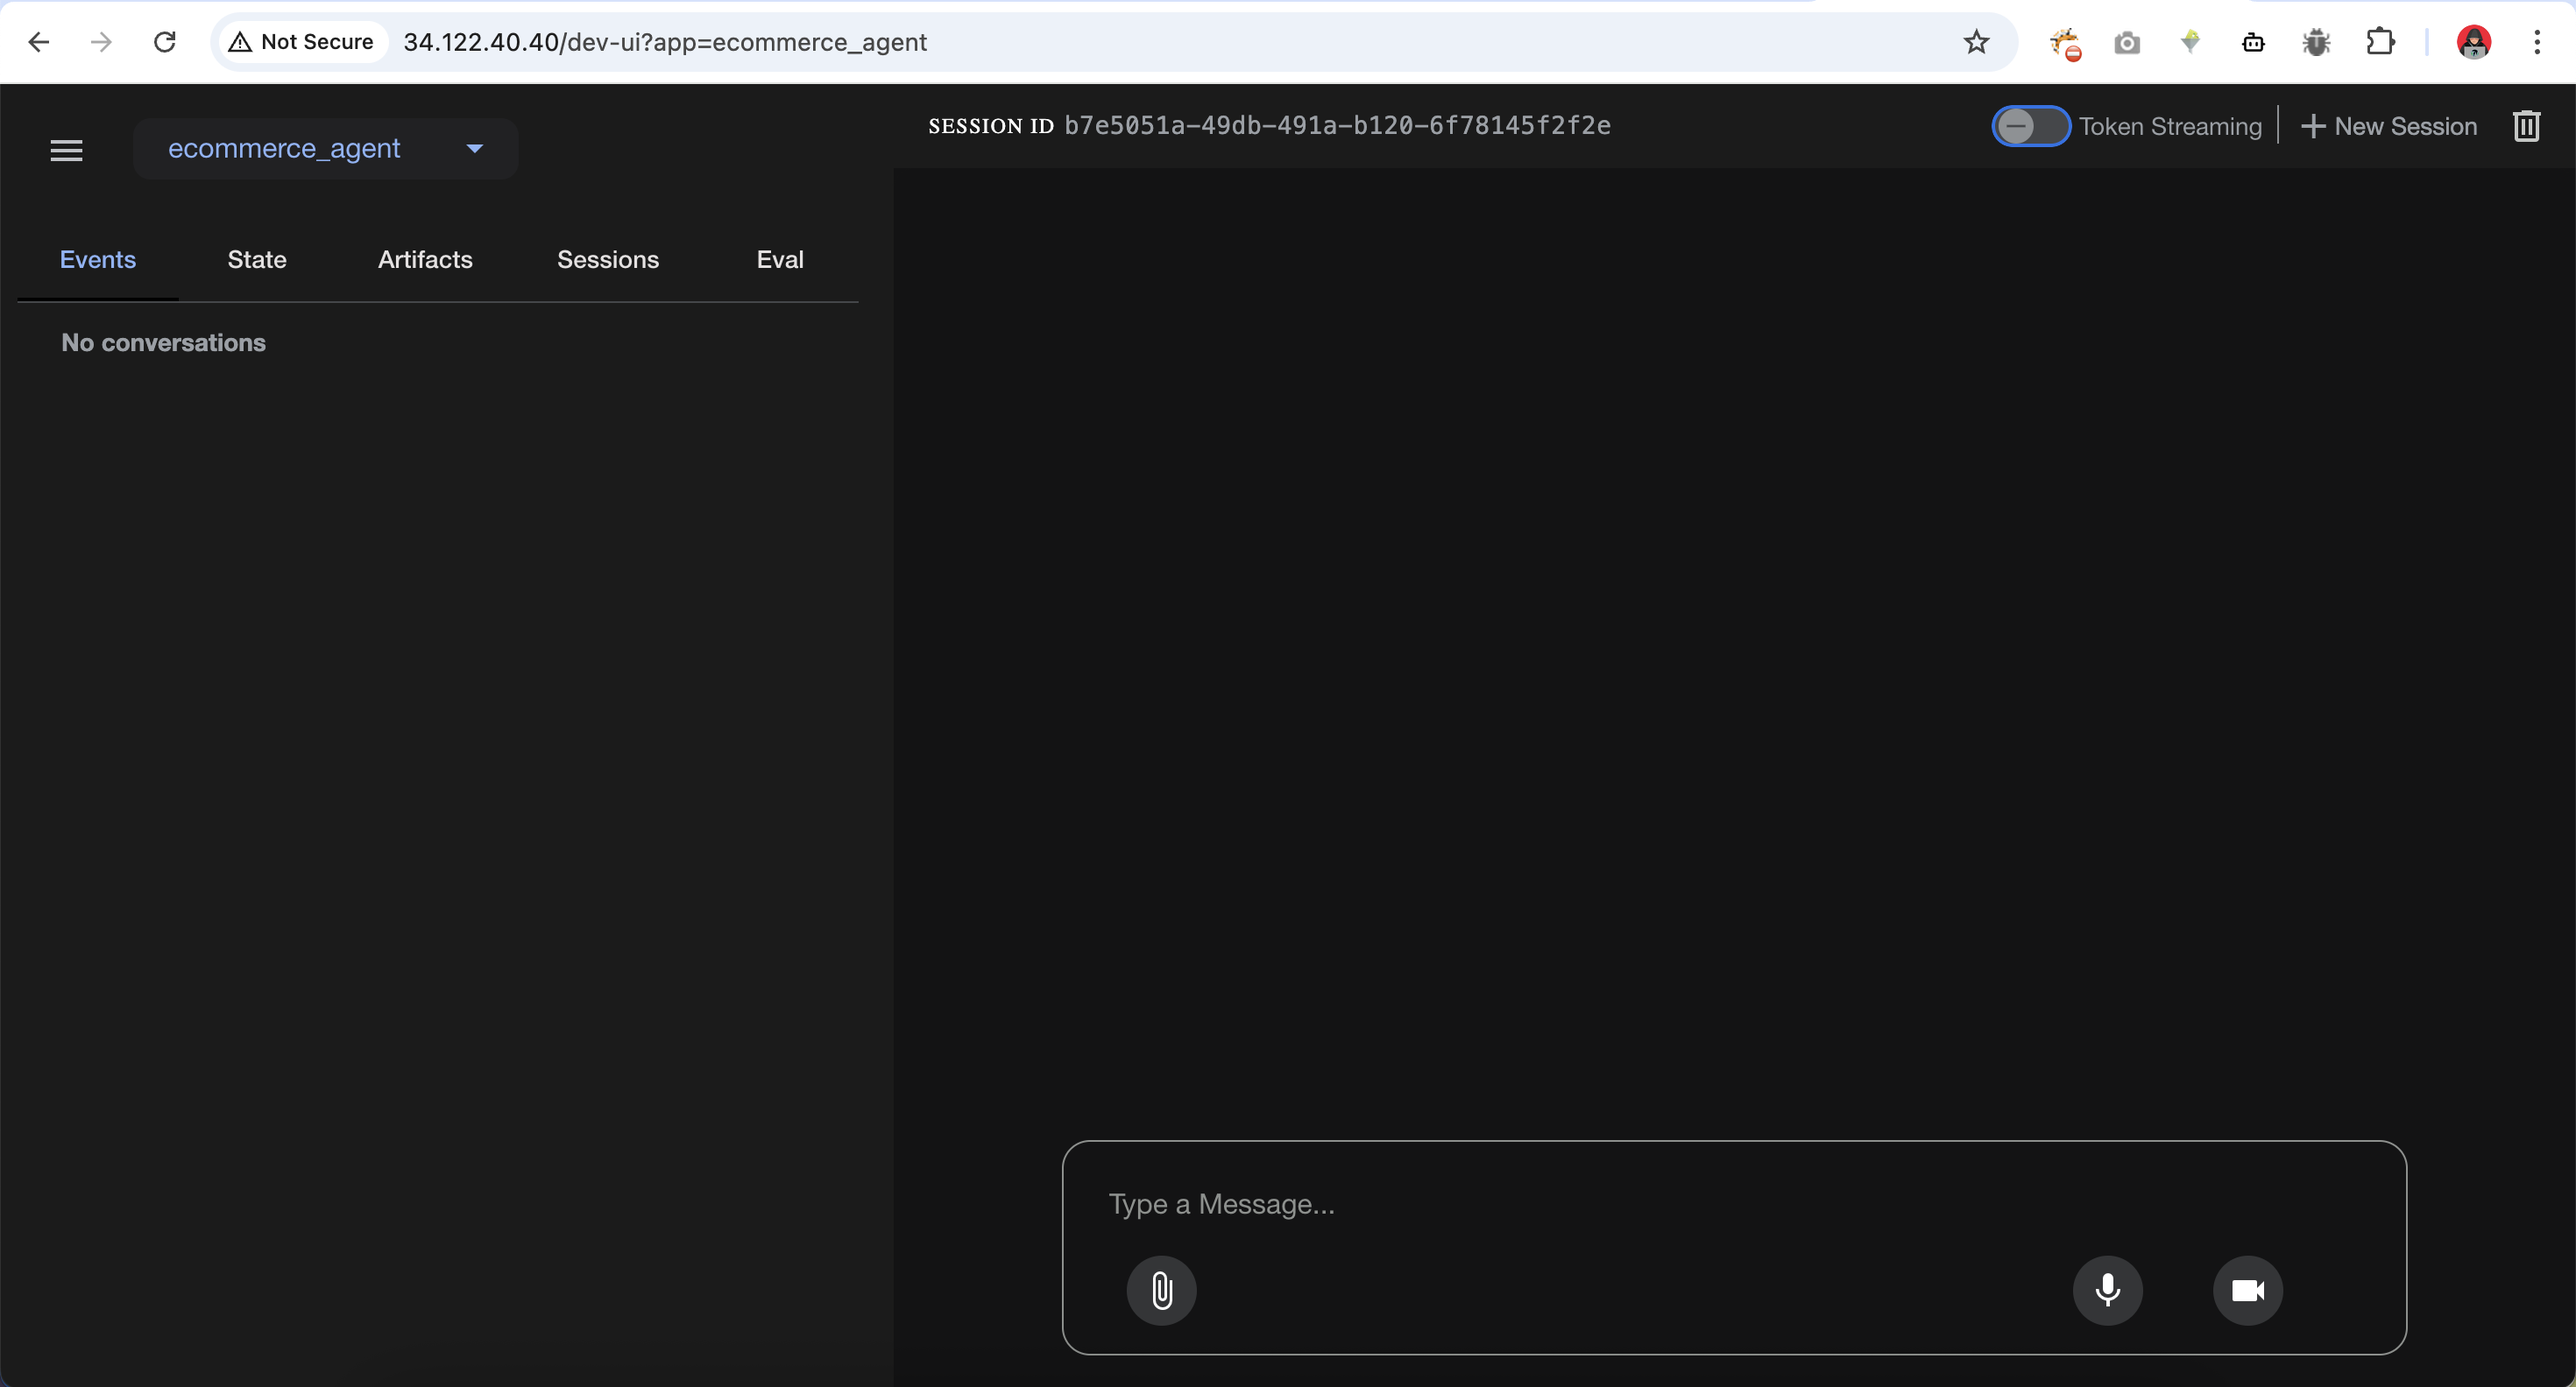
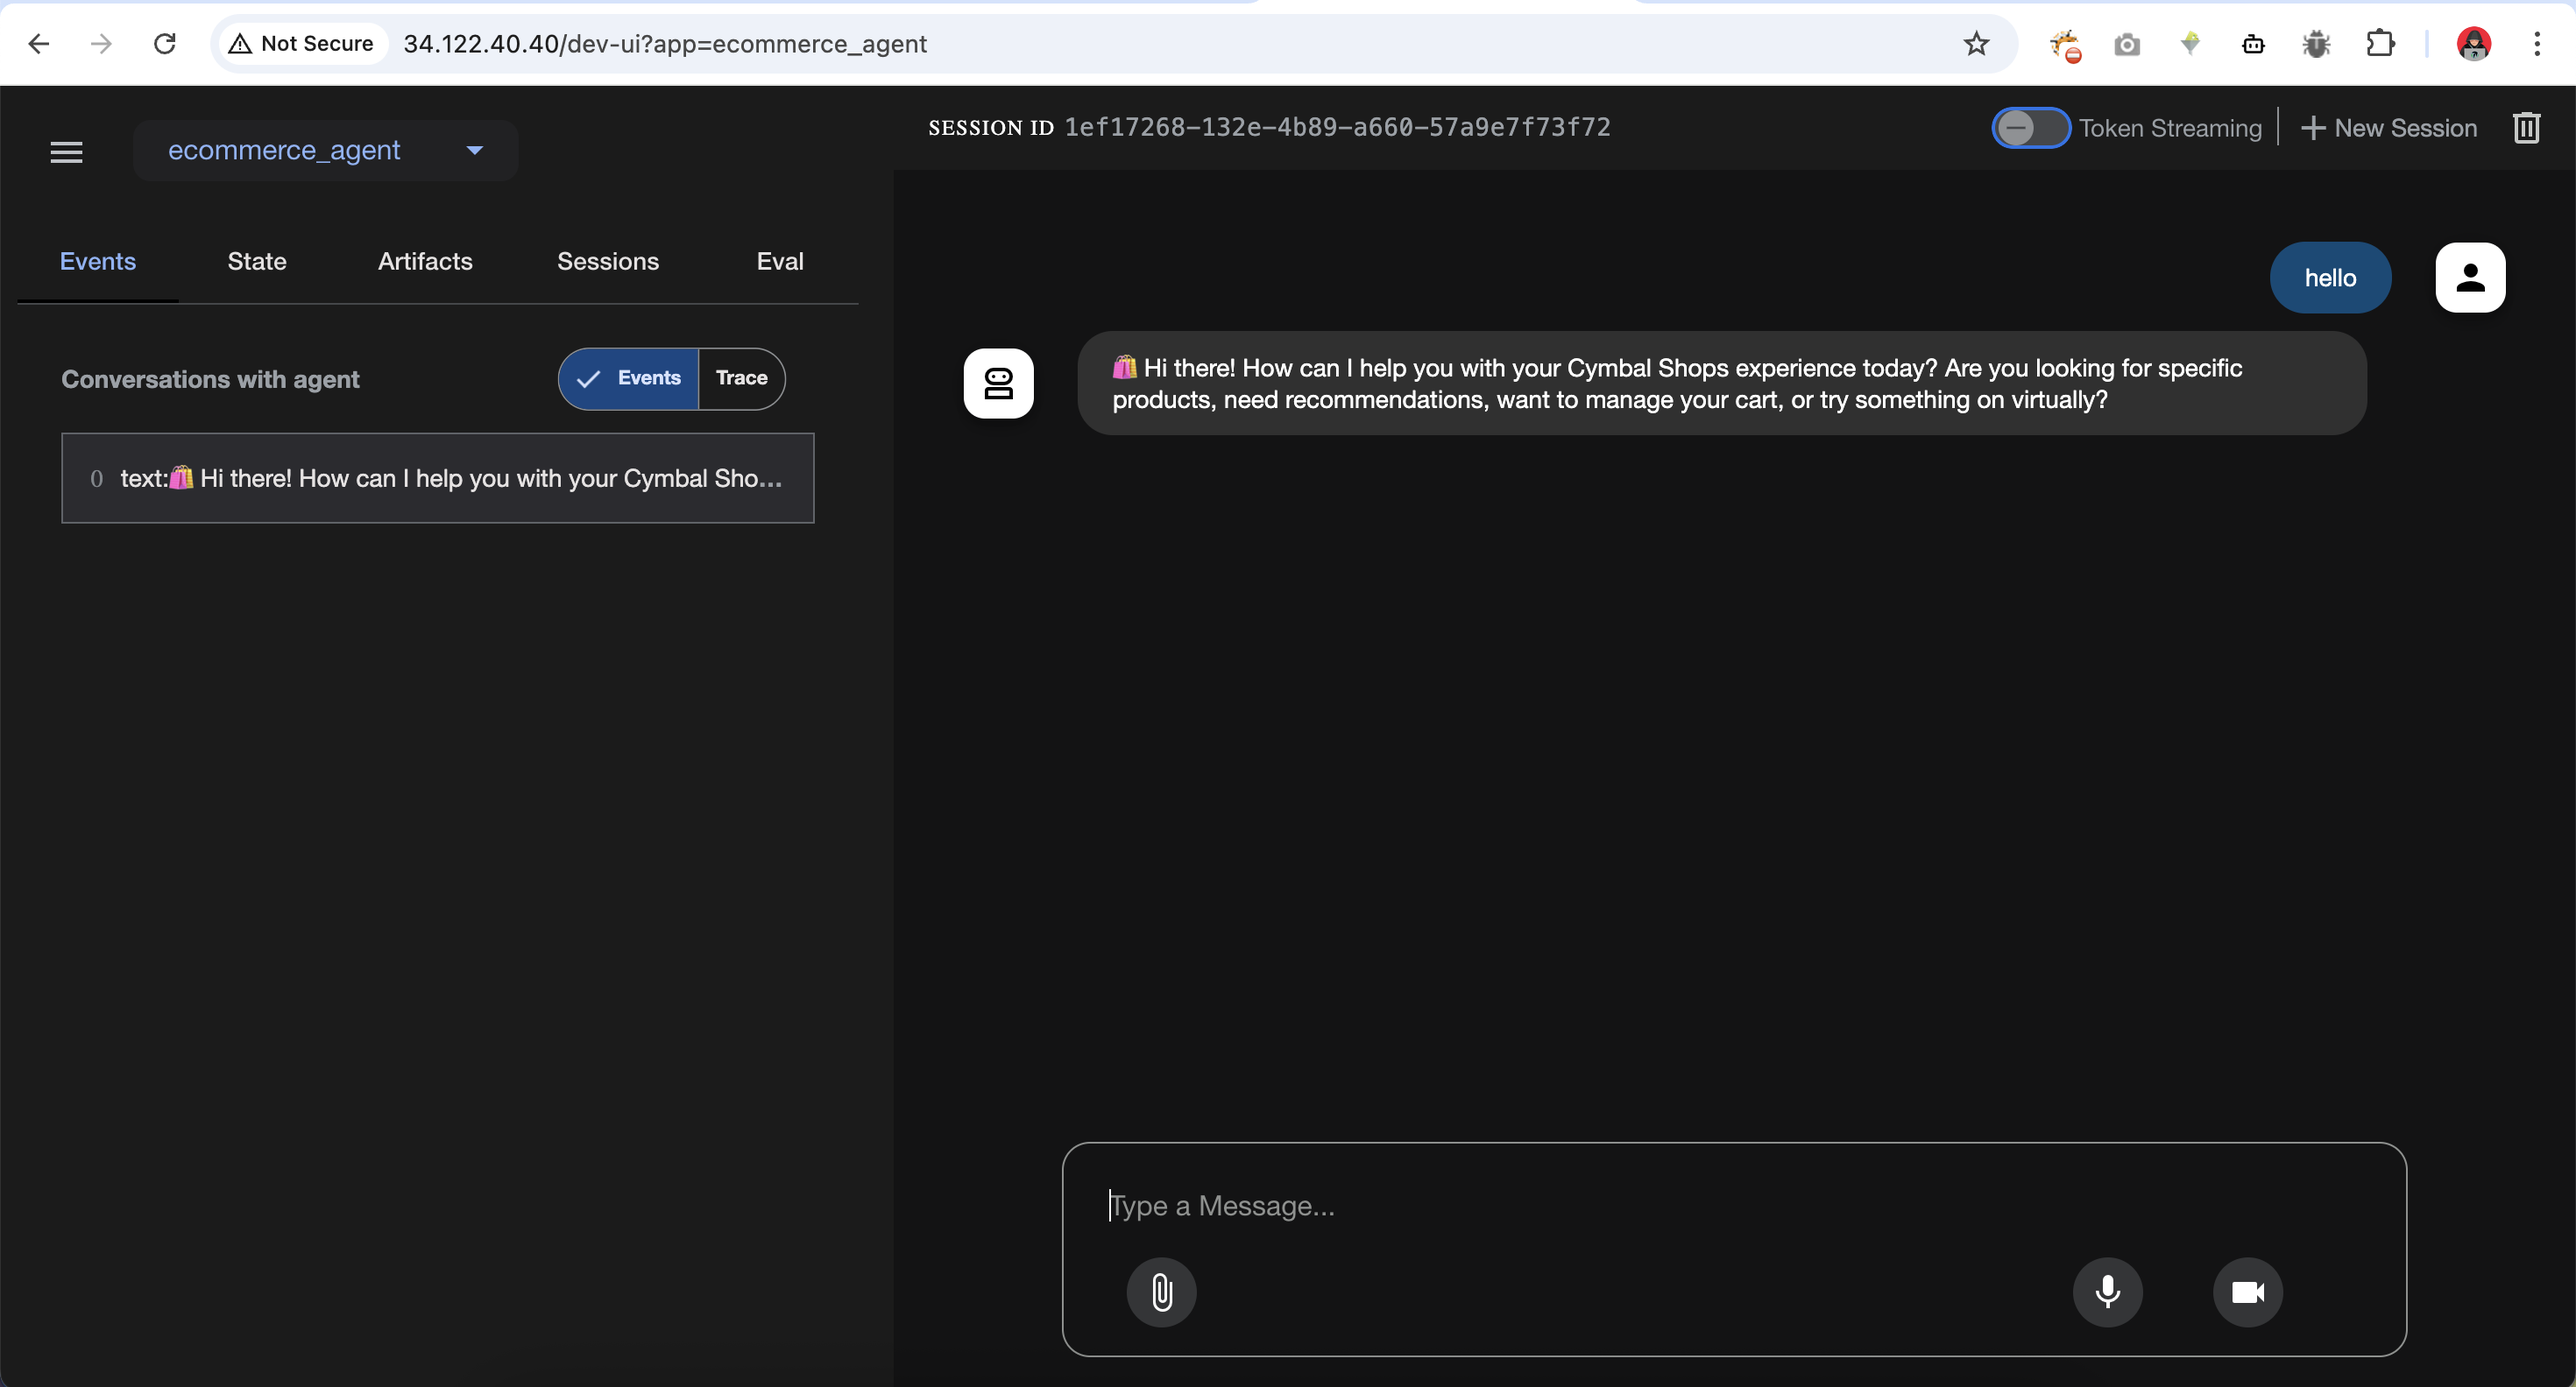
updated docs

diff --git a/ecommerce_agent/agent.py b/ecommerce_agent/agent.py
@@ -1,10 +1,18 @@
 from google.adk.agents import Agent
 import os
-from agents.product_finder_agent.agent import product_finder_agent
-from agents.product_recommendation_agent.agent import product_recommendation_agent
-from agents.order_placement_agent.agent import order_placement_agent
-from agents.virtual_tryon_agent.agent import virtual_tryon_agent
-from agents.export_agent.agent import export_agent
+
+try:
+   from ecommerce_agent.agents.product_finder_agent.agent import product_finder_agent
+   from ecommerce_agent.agents.product_recommendation_agent.agent import product_recommendation_agent
+   from ecommerce_agent.agents.order_placement_agent.agent import order_placement_agent
+   from ecommerce_agent.agents.virtual_tryon_agent.agent import virtual_tryon_agent
+   from ecommerce_agent.agents.export_agent.agent import export_agent
+except ImportError:
+   from agents.product_finder_agent.agent import product_finder_agent
+   from agents.product_recommendation_agent.agent import product_recommendation_agent
+   from agents.order_placement_agent.agent import order_placement_agent
+   from agents.virtual_tryon_agent.agent import virtual_tryon_agent
+   from agents.export_agent.agent import export_agent 
 
 from google.adk.runners import Runner
 from google.adk.artifacts import InMemoryArtifactService 

diff --git a/ecommerce_agent/agents/__init__.py b/ecommerce_agent/agents/__init__.py
@@ -2,6 +2,7 @@ from .product_finder_agent.agent import product_finder_agent
 from .product_recommendation_agent.agent import product_recommendation_agent
 from .virtual_tryon_agent.agent import virtual_tryon_agent
 from .order_placement_agent.agent import order_placement_agent
+from .export_agent.agent import export_agent
 
 # Import the root agent using absolute import
 import sys
@@ -18,5 +19,6 @@ __all__ = [
     'product_recommendation_agent',
     'virtual_tryon_agent',
     'order_placement_agent',
+    'export_agent'
     'agent'
 ]

diff --git a/README.md b/README.md
@@ -244,6 +244,7 @@ The system follows a **hierarchical agent architecture** with specialized agents
 
 ### Technologies Used
 - **Google ADK**: Agent orchestration framework
+- **Google Vertex AI**: For AI Model
 - **BeautifulSoup4**: Web scraping
 - **Pillow**: Image processing
 - **MCP**: Model Context Protocol integration
@@ -317,7 +318,18 @@ Container Registry API (containerregistry.googleapis.com)
 
   - **Logs Writer** (`roles/logging.logWriter`): To allow Cloud Build to write build logs to Cloud Logging.
 
-7. Automated Deployment using `adk deploy gke`: This cli command will `automatically build images`, `write Kubernetes manifests` & push to `Artifact Registry`
+```
+gcloud projects add-iam-policy-binding gke-agent \
+        --member="serviceAccount:859448938040-compute@developer.gserviceaccount.com" \
+        --role="roles/aiplatform.user"
+```
+
+7. Enable Google Vertex AI Service: 
+
+  - 7.1 Visit: `https://console.developers.google.com/apis/api/aiplatform.googleapis.com/overview?project=gke-agent`
+  - 7.2 Click "Enable" to enable the Vertex AI API for your project
+
+8. Automated Deployment using `adk deploy gke`: This cli command will `automatically build images`, `write Kubernetes manifests` & push to `Artifact Registry`
 
   - Command: `adk deploy gke --project gke-agent --cluster_name gke-cluster --region us-central1 --with_ui --log_level info ecommerce_agent`
 
@@ -326,13 +338,13 @@ Container Registry API (containerregistry.googleapis.com)
 
 *NOTE: Wait for the adk deployment on gke, it could take 5-15 minutes*
 
-8. Check POD Status: `kubectl get pods`
+9. Check POD Status: `kubectl get pods`
 
 ![](docs/5_kubectl_status.png)
 
 If `STATUS` is not running and failed, then need to check logs and fix the code or anyother permission issue
 
-9. Find the External IP: Get the public IP address for your agent's service
+10. Find the External IP: Get the public IP address for your agent's service
 
 ```
 kubectl get service
@@ -340,10 +352,21 @@ kubectl get service
 
 ![](docs/6_kubectl_external_ip.png)
 
-10. Visit the deployed service using external IP
+11. Visit the deployed service using external IP
 
 ![](docs/7_deployed_adk.png)
+
+Visit: `http://34.122.40.40/dev-ui?app=ecommerce_agent`
  
+## Live Demo screenshots
+
+![](docs/8_demo.png)
+
+![](docs/9_demo.png)
+
+![](docs/10_demo.png)
+
+![](docs/11_demo.png)
 
 ## 📊 Performance
 
